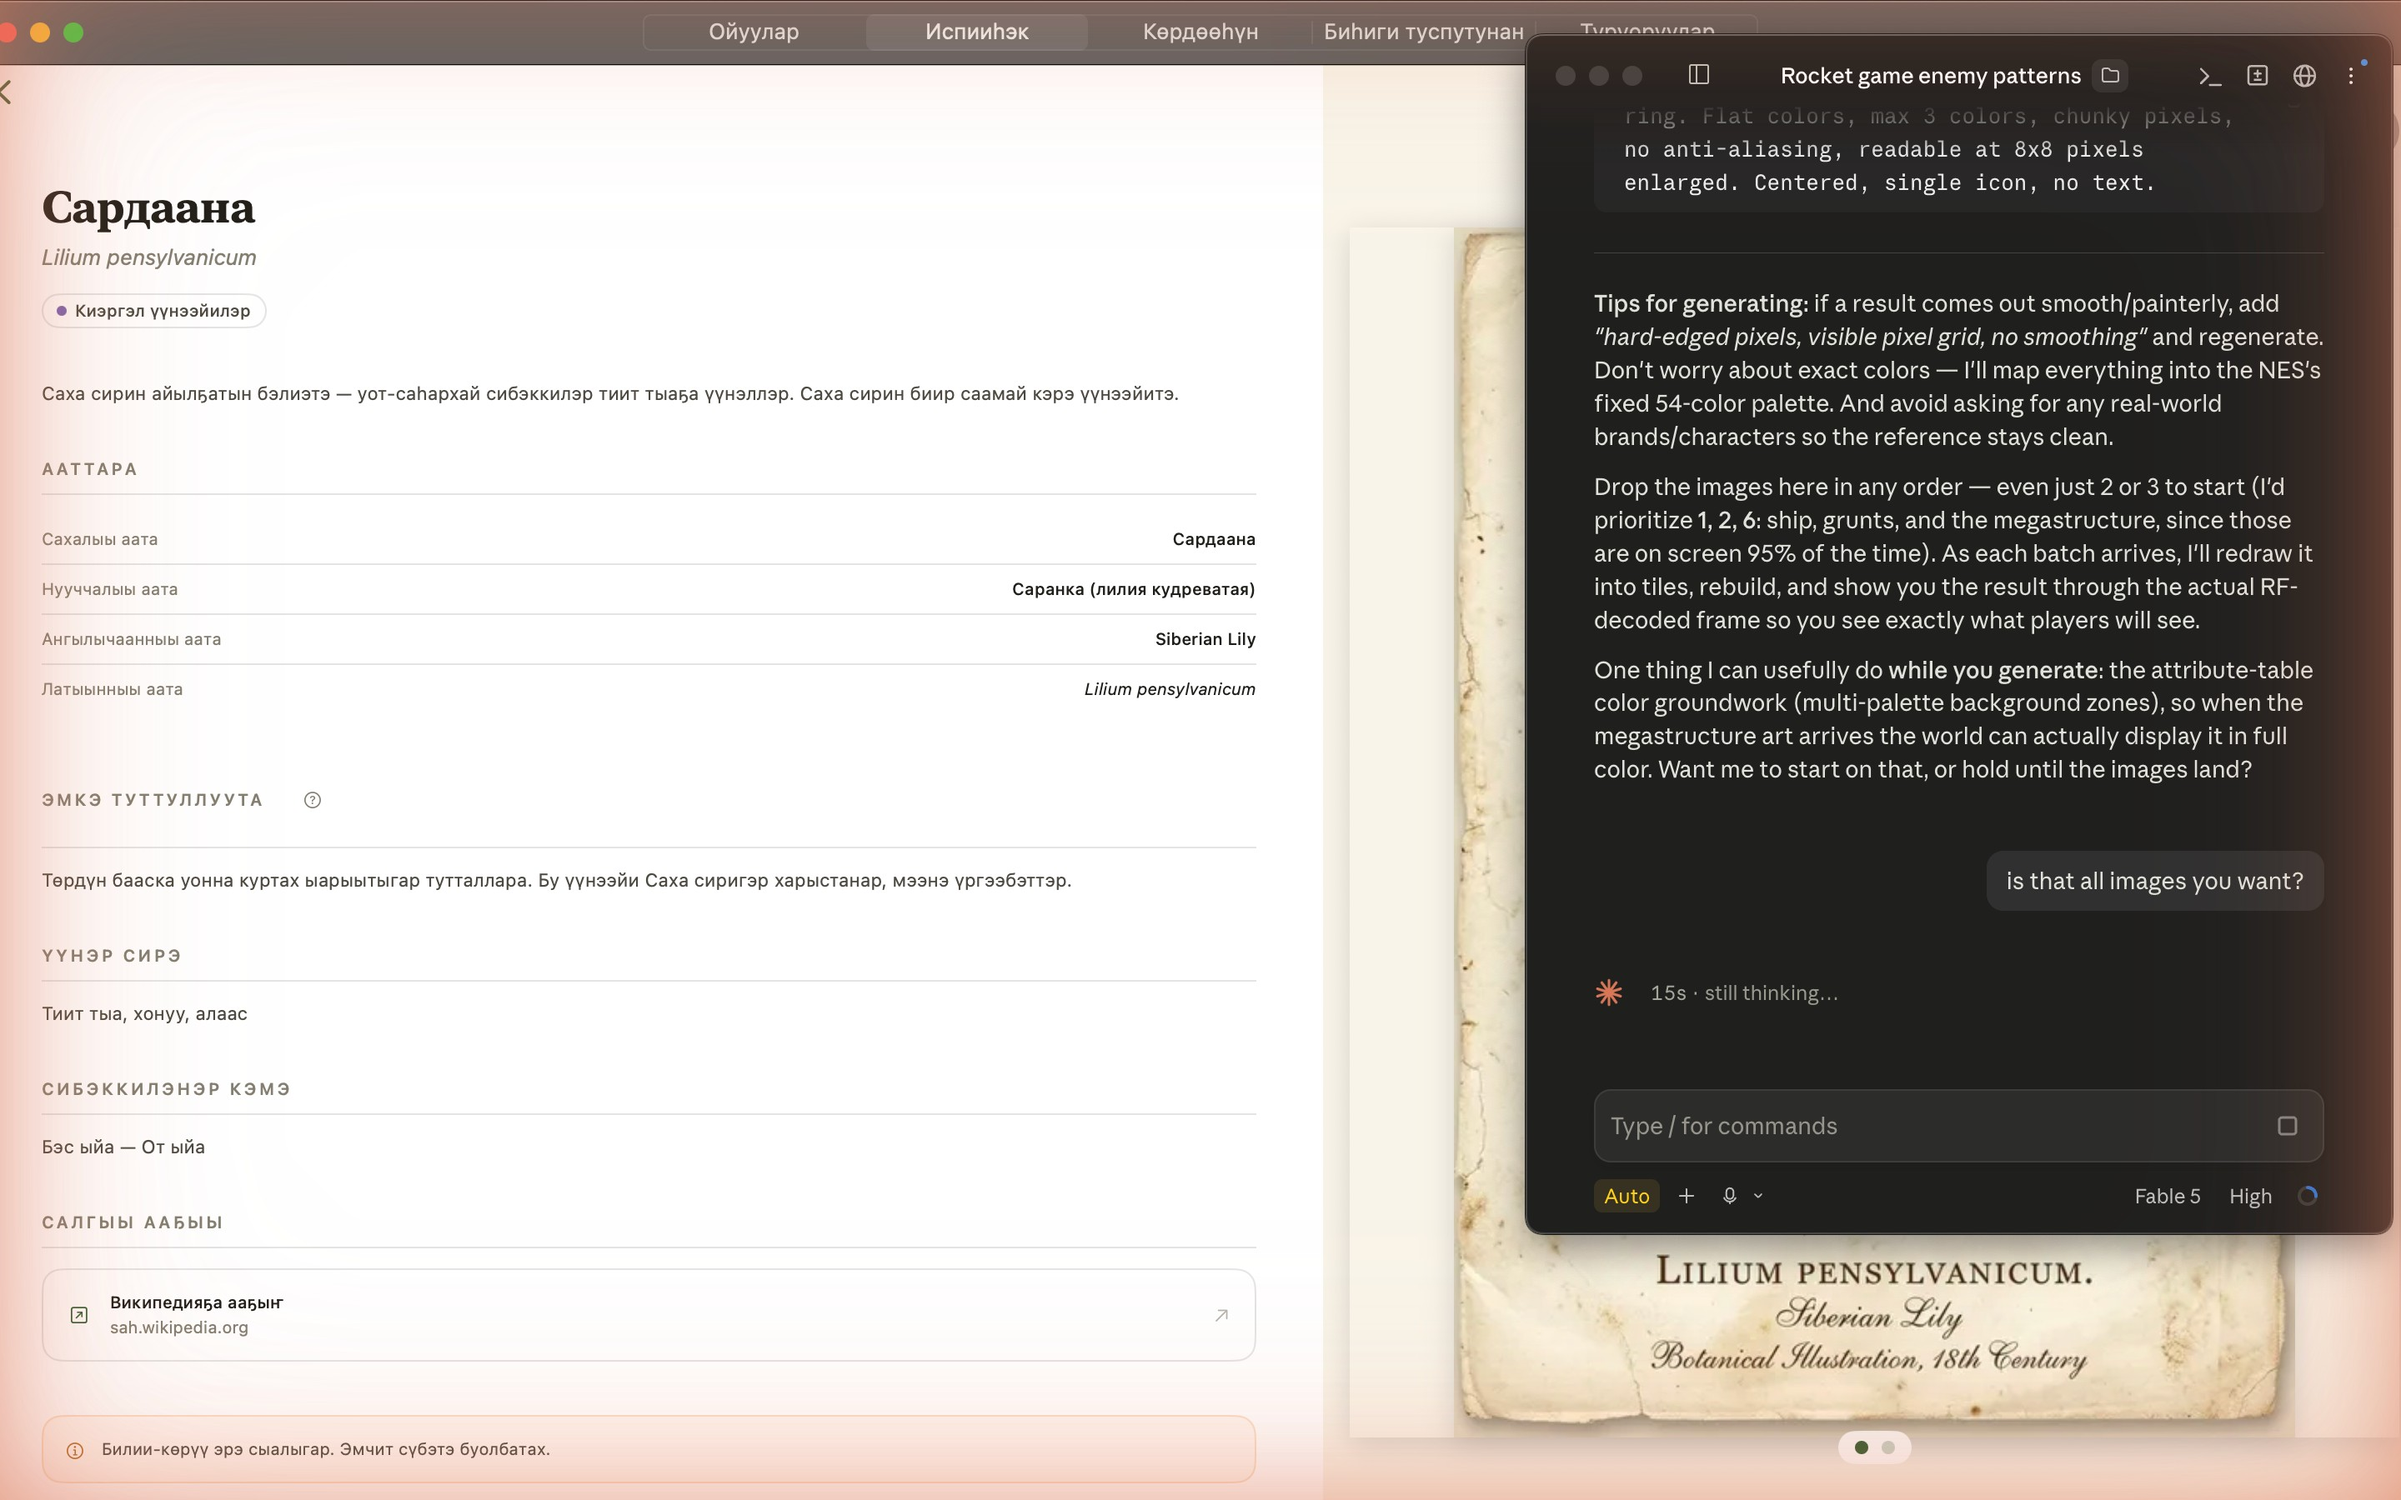
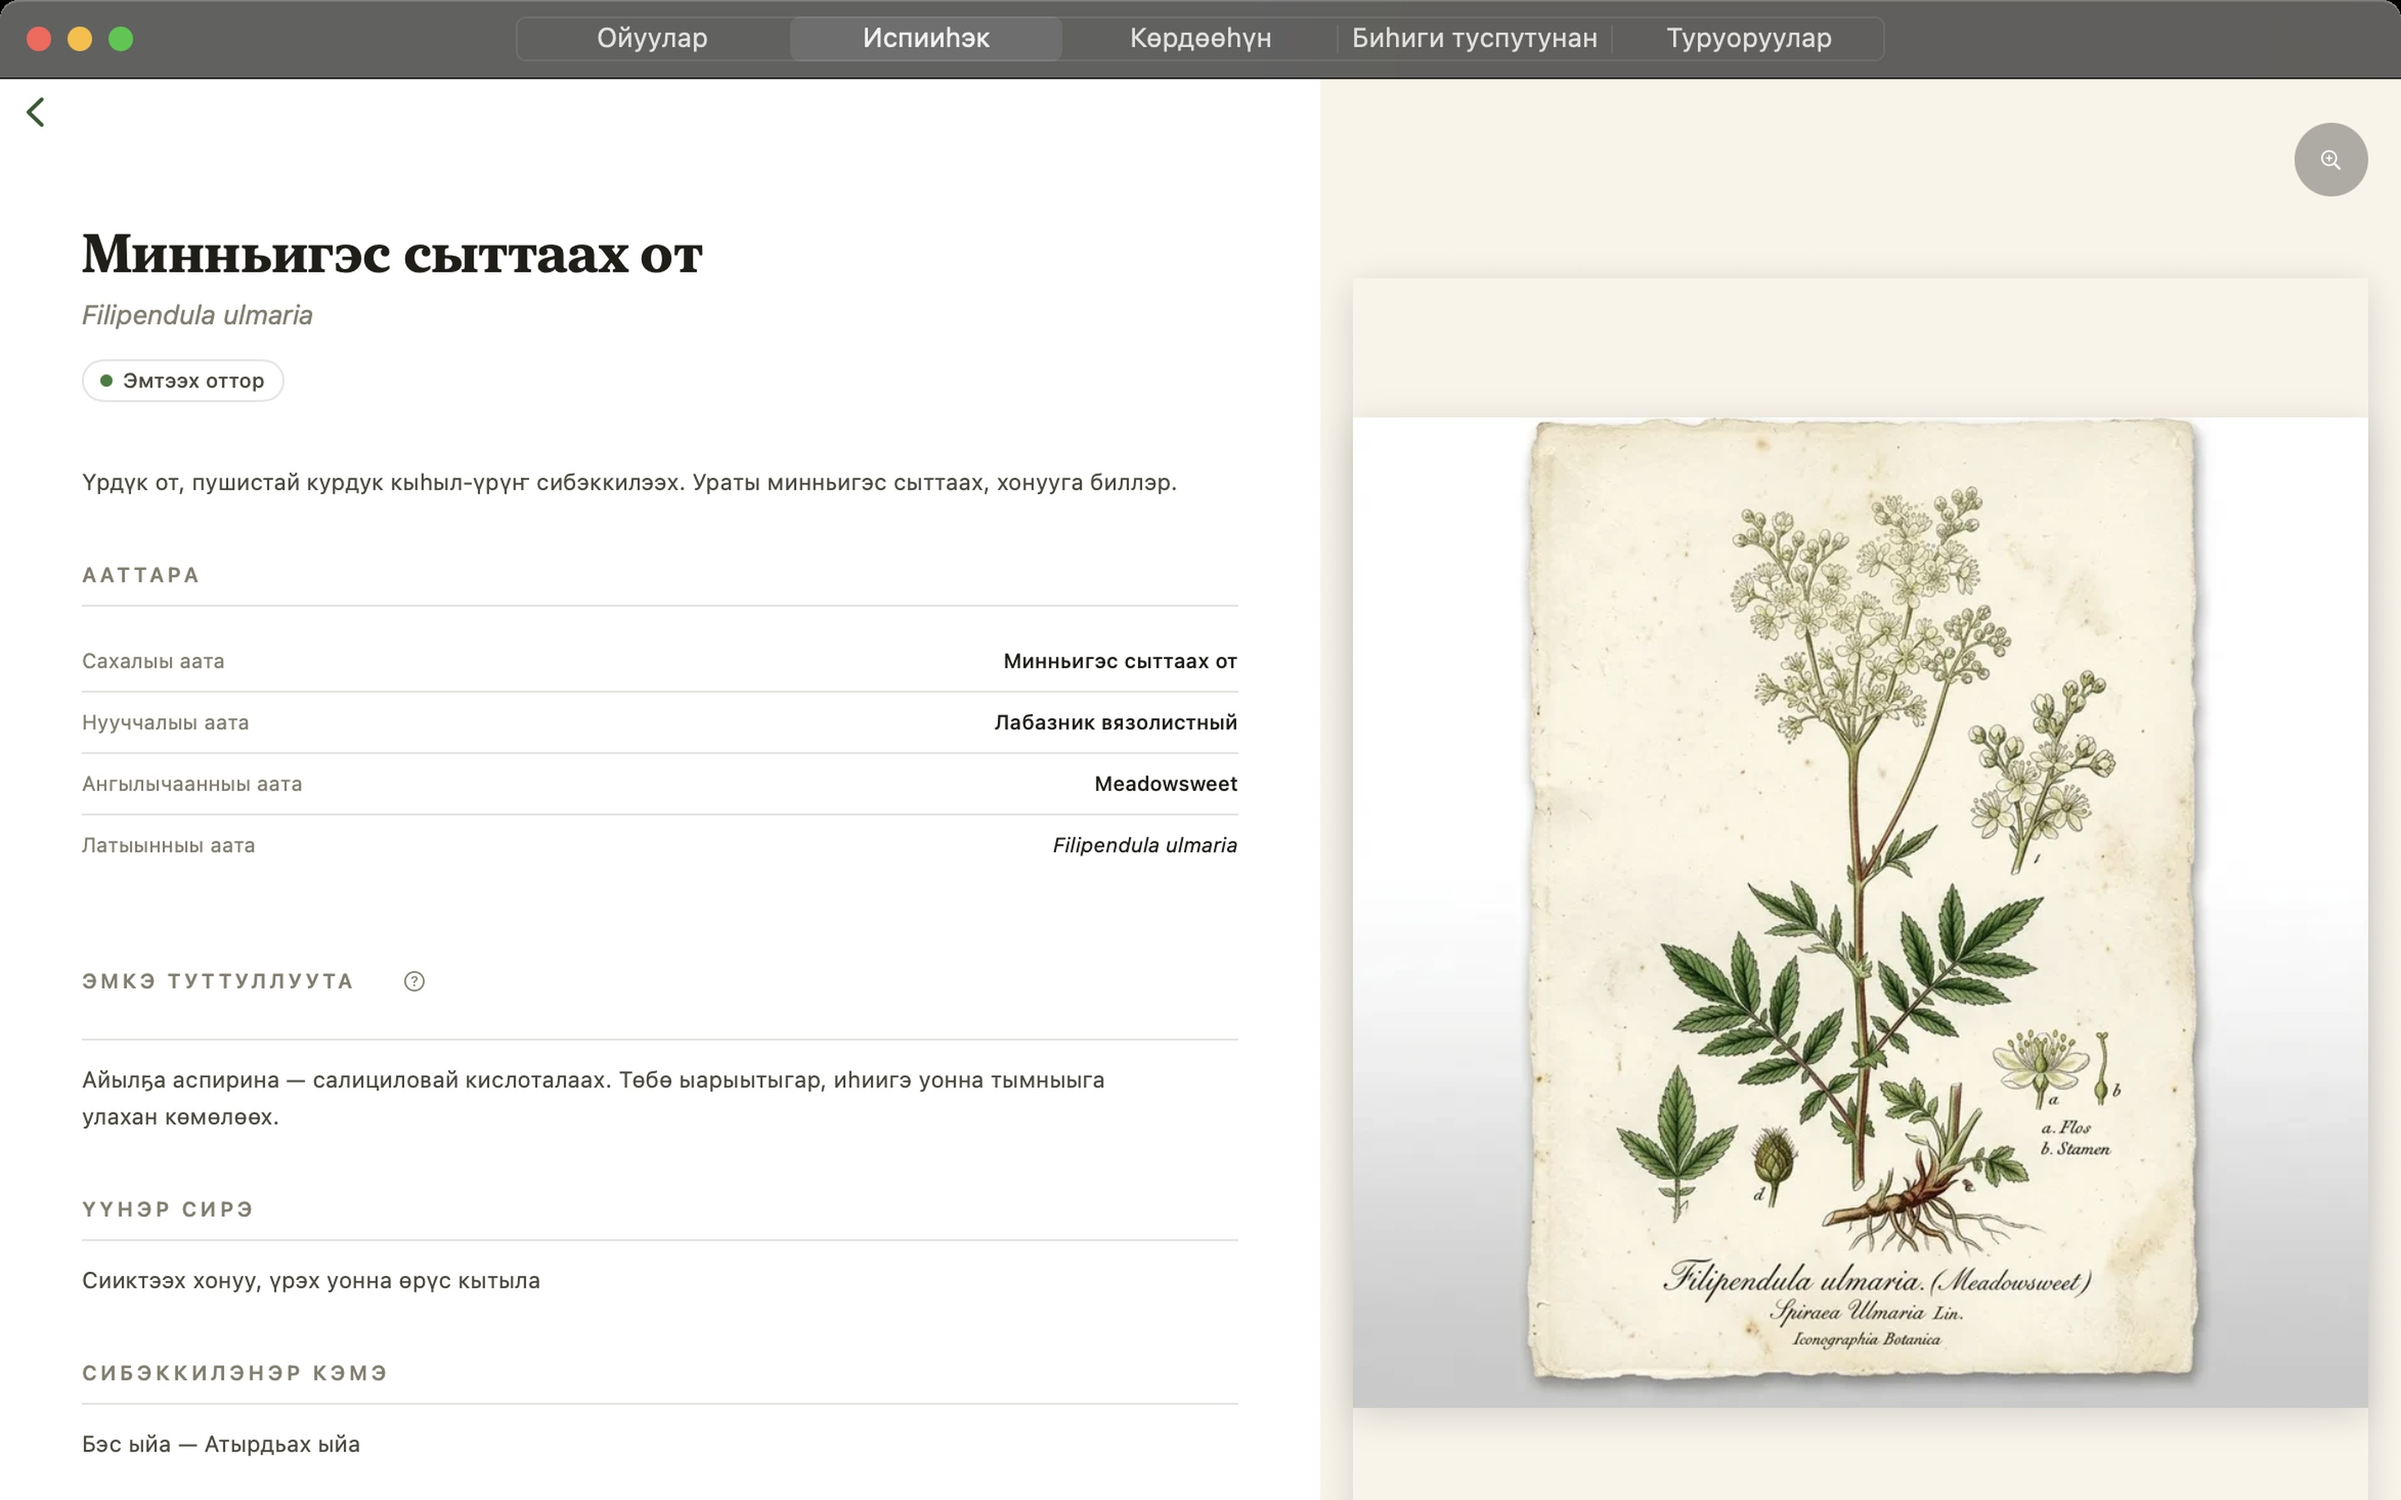
feat(mongolia): photo galleries (close→far) for 6 species + clean mac screenshots
Detail pages now carry a multi-photo gallery, not a single image. The plant
model gains `gallery: string[]` (extra imageIds after the primary, ordered
close→far); the detail carousel and the fullscreen viewer render one swipe per
frame. getGalleryPaths() is the shared helper.

Wired 6 Mongolia species (petunia +2, kale/alfalfa/blue-spruce/Jerusalem-sage/
ryegrass +1 each = 7 curated frames). CURATED, not auto-grouped: the raw camera
bursts interleave different flowerbed plants shot seconds apart, so every frame
was eyeballed against its species and the mismatches dropped — no repeat of the
wrong-species bug. optimize-mongolia.cjs IMAGE_MAP extended with the -N frames;
source originals stay gitignored, only the webps ship.

Verified live: mn-petunia shows plate + 3 correct purple-petunia photos (4/4 in
the viewer), Mongolian labels intact.

Also: replaced the App Review-contaminated macOS screenshots with clean
window-only re-captures (2880×1800, no Claude Code overlay).

diff --git a/src/pages/PlantDetailPage.tsx b/src/pages/PlantDetailPage.tsx
@@ -5,7 +5,7 @@ import { motion } from 'framer-motion';
 import { useTranslation } from 'react-i18next';
 import { ArrowLeft, ZoomIn, Info, HelpCircle, ExternalLink, ArrowUpRight } from 'lucide-react';
 import { AnimatePresence } from 'framer-motion';
-import { getImagePath, getIllustrationPath, getWikipediaUrl } from '../data/plants';
+import { getGalleryPaths, getIllustrationPath, getWikipediaUrl } from '../data/plants';
 import { findPlantBySlug, COUNTRIES } from '../data/countries';
 
 // Vernacular name-row label per language, for the country-aware names table.
@@ -102,18 +102,20 @@ export default function PlantDetailPage() {
     );
   }
 
-  const imageSrc = getImagePath(plant, 'medium');
   const illSrc = getIllustrationPath(plant, 'medium');
 
   // Illustration-forward by default: a genuine botanical plate leads with the
-  // photo as the secondary swipe. The "lead image" setting flips the order;
-  // plants without a plate simply show the photo.
+  // photo(s) as the secondary swipe. The "lead image" setting flips the order;
+  // plants without a plate simply show the photos. A plant with a gallery adds
+  // one photo swipe per frame, ordered close→far (getGalleryPaths).
   const plateSlide = illSrc ? [{ kind: 'plate' as const, src: illSrc }] : [];
-  const photoSlide = [{ kind: 'photo' as const, src: imageSrc }];
+  const photoSlides = getGalleryPaths(plant, 'medium').map(
+    (src) => ({ kind: 'photo' as const, src }),
+  );
   const slides: { kind: 'plate' | 'photo'; src: string }[] =
     settings.leadImage === 'photo'
-      ? [...photoSlide, ...plateSlide]
-      : [...plateSlide, ...photoSlide];
+      ? [...photoSlides, ...plateSlide]
+      : [...plateSlide, ...photoSlides];
 
   // Full-resolution items for the zoom viewer, in the same order as the slides.
   const fullIll = getIllustrationPath(plant, 'full');
@@ -128,18 +130,18 @@ export default function PlantDetailPage() {
         href: wikipediaHref,
       }]
     : [];
-  const photoItem: ViewerItem[] = [{
-    src: getImagePath(plant, 'full'),
+  const photoItems: ViewerItem[] = getGalleryPaths(plant, 'full').map((src) => ({
+    src,
     title: loc(plant.names, lang),
     subtitle: plant.names.latin,
     kind: t('plant.photograph'),
     badges: plant.categories,
     href: wikipediaHref,
-  }];
+  }));
   const viewerItems: ViewerItem[] =
     settings.leadImage === 'photo'
-      ? [...photoItem, ...plateItem]
-      : [...plateItem, ...photoItem];
+      ? [...photoItems, ...plateItem]
+      : [...plateItem, ...photoItems];
 
   const handleScroll = () => {
     if (scrollRef.current) {

diff --git a/src/data/mongolia.ts b/src/data/mongolia.ts
@@ -94,6 +94,7 @@ const RAW: Omit<Plant, 'imageBase'>[] = [
     id: 'mn-petunia',
     slug: 'mn-petunia',
     imageId: 'mongolia-03',
+    gallery: ['mongolia-03-2', 'mongolia-03-3'],
     names: {
       sah: 'Петуния сибэкки',
       ru: 'Петуния',
@@ -152,6 +153,7 @@ const RAW: Omit<Plant, 'imageBase'>[] = [
     id: 'mn-ornamental-kale',
     slug: 'mn-ornamental-kale',
     imageId: 'mongolia-05',
+    gallery: ['mongolia-05-2'],
     names: {
       sah: 'Киэргэл хаппыста',
       ru: 'Декоративная капуста',
@@ -239,6 +241,7 @@ const RAW: Omit<Plant, 'imageBase'>[] = [
     id: 'mn-alfalfa',
     slug: 'mn-alfalfa',
     imageId: 'mongolia-08',
+    gallery: ['mongolia-08-2'],
     names: {
       sah: 'Люцерна',
       ru: 'Люцерна посевная',
@@ -355,6 +358,7 @@ const RAW: Omit<Plant, 'imageBase'>[] = [
     id: 'mn-blue-spruce',
     slug: 'mn-blue-spruce',
     imageId: 'mongolia-12',
+    gallery: ['mongolia-12-2'],
     names: {
       sah: 'Күөх-көмүс тыт (ель)',
       ru: 'Ель колючая (голубая)',
@@ -471,6 +475,7 @@ const RAW: Omit<Plant, 'imageBase'>[] = [
     id: 'mn-phlomis',
     slug: 'mn-phlomis',
     imageId: 'mongolia-16',
+    gallery: ['mongolia-16-2'],
     names: {
       sah: 'Күлүмэх эргиэлэс сибэкки',
       ru: 'Зопник клубненосный',
@@ -587,6 +592,7 @@ const RAW: Omit<Plant, 'imageBase'>[] = [
     id: 'mn-ryegrass',
     slug: 'mn-ryegrass',
     imageId: 'mongolia-20',
+    gallery: ['mongolia-20-2'],
     names: {
       sah: 'Күөх-көмүс от (вострец)',
       ru: 'Востре́ц китайский',

diff --git a/src/data/plants.ts b/src/data/plants.ts
@@ -753,6 +753,14 @@ export function getImagePath(plant: Plant, size = 'medium') {
   return `${plant.imageBase ?? '/plants'}/${size}/${plant.imageId}.webp`;
 }
 
+/** Every photo for a plant: primary first, then its gallery frames (close→far). */
+export function getGalleryPaths(plant: Plant, size = 'medium'): string[] {
+  const base = plant.imageBase ?? '/plants';
+  return [plant.imageId, ...(plant.gallery ?? [])].map(
+    (id) => `${base}/${size}/${id}.webp`,
+  );
+}
+
 /** Canonical plate slug for a plant, e.g. plant-01 → plant-01-ill. */
 function illustrationSlug(plant: Plant): string {
   return `${plant.imageId}-ill`;

diff --git a/src/types/index.ts b/src/types/index.ts
@@ -24,6 +24,9 @@ export interface Plant {
   id: string;
   slug: string;
   imageId: string;
+  /** Extra photo imageIds beyond the primary, ordered close→far (macro first,
+   *  habitat last). The detail carousel appends one swipe per entry. */
+  gallery?: string[];
   illustrationId?: string;
   names: LocalizedStringWithLatin;
   description: LocalizedString;
